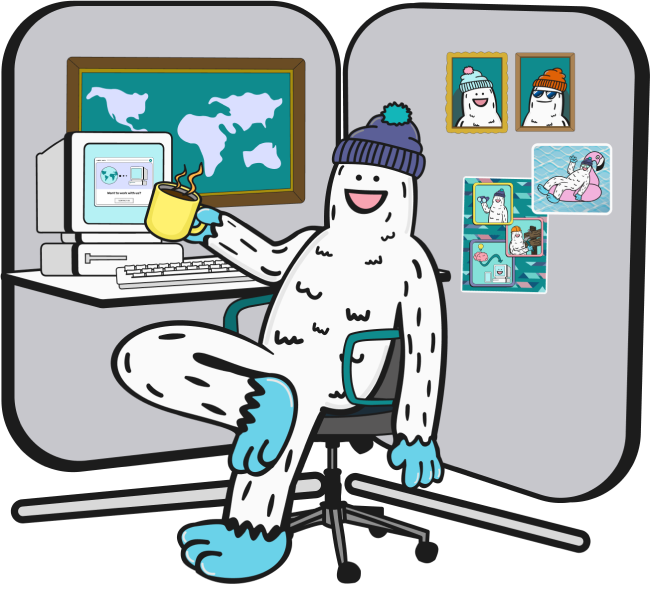
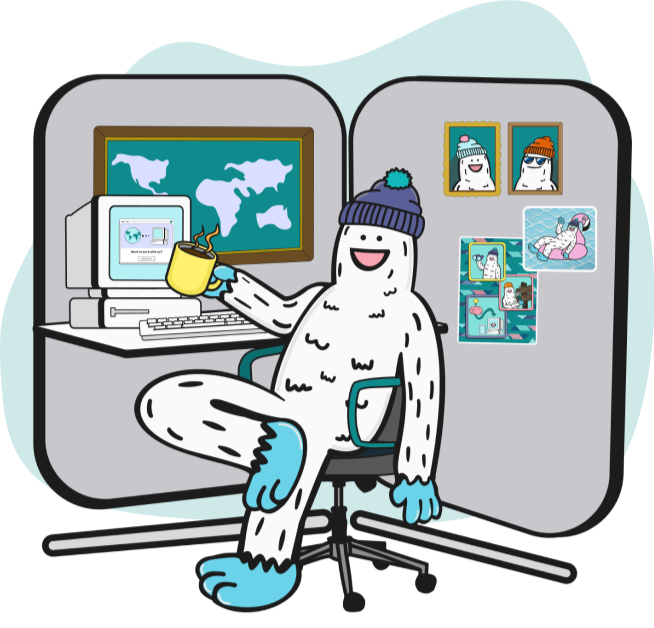
style updates

diff --git a/src/app/page.tsx b/src/app/page.tsx
@@ -29,15 +29,17 @@ const rubik = Rubik({
 export default function Home() {
   return (
     <main className='flex flex-col items-center'>
-      <nav className='w-full items-center justify-between inline-flex px-4'>
+      <nav className='w-full items-center justify-between inline-flex px-4 shadow-md bg-white z-10'>
         <Image src={nav} alt={''} height={62} width={200} />
         <Button variant={'cta'} className='px-8 h-10'>
           contact us
         </Button>
       </nav>
-      <section className='w-full px-4'>
-        <div className='mx-auto flex flex-col'>
-          <div className='py-8 px-4'>
+      <section className='w-full relative border-b-8 border-secondary bg-[#fafafa] p-0 m-0 ~pt-8/16 xl:pt-0 xl:h-[600px] flex justify-center min-w-full'>
+        {/* container */}
+        <div className='flex flex-col xl:flex-row w-full h-full flex-1 items-start xl:items-center xl:justify-center justify-start min-w-full'>
+          
+          <div className='py-8 px-4 xl:pl-16 flex-col flex flex-1 justify-center md:-mb-24 xl:mb-0'>
             <h1
               className={cn(
                 '~text-5xl/7xl font-bold font-rubik',
@@ -46,14 +48,24 @@ export default function Home() {
             >
               Step into our office...
             </h1>
-            <p className='~text-lg/2xl ~mt-4/8'>
+            <p className='~text-lg/2xl ~mt-4/8 xl:max-w-[600px] md:max-w-[440px]'>
               Lost Yeti is here to help you find your way in the world of web
               development
             </p>
           </div>
 
-          <Image alt={''} src={hero} width={600} height={650} />
+          <div className='flex flex-1 w-full shrink-0 justify-center md:justify-end ~-mb-16/32 xl:mb-0'>
+            <Image
+              alt={'hero image'}
+              src={hero}
+              width={654}
+              height={627}
+              className='xl:absolute xl:-bottom-16 xl:right-8 md:right-0 ~max-w-[26rem]/[40.875rem] ~max-h-[25rem]/[39.25rem]'
+            />
+          </div>
+
         </div>
+
       </section>
 
       <section className='w-full bg-primary text-primary-foreground px-4'>
@@ -93,7 +105,13 @@ export default function Home() {
         </div>
       </section>
 
-      <section className='w-full px-4'>
+      <section className='w-full px-4 relative'>
+        <div className='overflow-hidden h-[150px]'>
+          <svg viewBox="0 0 500 150" preserveAspectRatio="none" className='absolute w-full -top-1 left-0 right-0 bg-primary -z-10'>
+            <path className='fill-background stroke-none' d="M0.00,49.98 C262.42,117.92 266.08,1.48 500.00,49.98 L500.00,150.00 L0.00,150.00 Z"></path>
+          </svg>
+        </div>
+        
         <div className='mx-auto flex flex-col md:flex-row-reverse gap-4 md:gap-16'>
           <div className='flex-1'>
             <h2 className='font-bold ~text-[2rem]/[3rem]'>
@@ -110,6 +128,12 @@ export default function Home() {
           <div className='flex-1'>
             <Image alt={''} src={computer} width={454} height={500} />
           </div>
+        </div>
+
+        <div className='overflow-hidden h-[150px]'>
+          <svg viewBox="0 0 500 150" preserveAspectRatio="none" className='absolute w-full -bottom-1 left-0 right-0'>
+            <path className='fill-secondary stroke-none' d="M0.00,49.98 C262.42,117.92 266.08,1.48 500.00,49.98 L500.00,150.00 L0.00,150.00 Z"></path>
+          </svg>
         </div>
       </section>
 
@@ -270,15 +294,14 @@ export default function Home() {
           </div>
         </div>
       </section>
-      <footer>
+      <footer className='w-full px-4 lg:px-0 border-t-8 border-secondary flex flex-col justify-start pt-8'>
         {/* footer content */}
-
-        <div>
-          <Image src={footer} alt={''} height={173} width={246} />
+        <div className='flex max-w-screen-lg mx-auto flex-col gap-8 md:gap-0 items-center md:items-center md:justify-between w-full md:flex-row'>
+          <Image src={footer} alt={''} height={173} width={246} className='' />
           <p>
             Contact us: <a>lostyetidesignco@gmail.com</a>
           </p>
-          <Button variant={'cta'} className='px-8 h-10'>
+          <Button variant={'cta'} className='px-8 h-10 w-full md:w-auto'>
             contact us
           </Button>
         </div>
